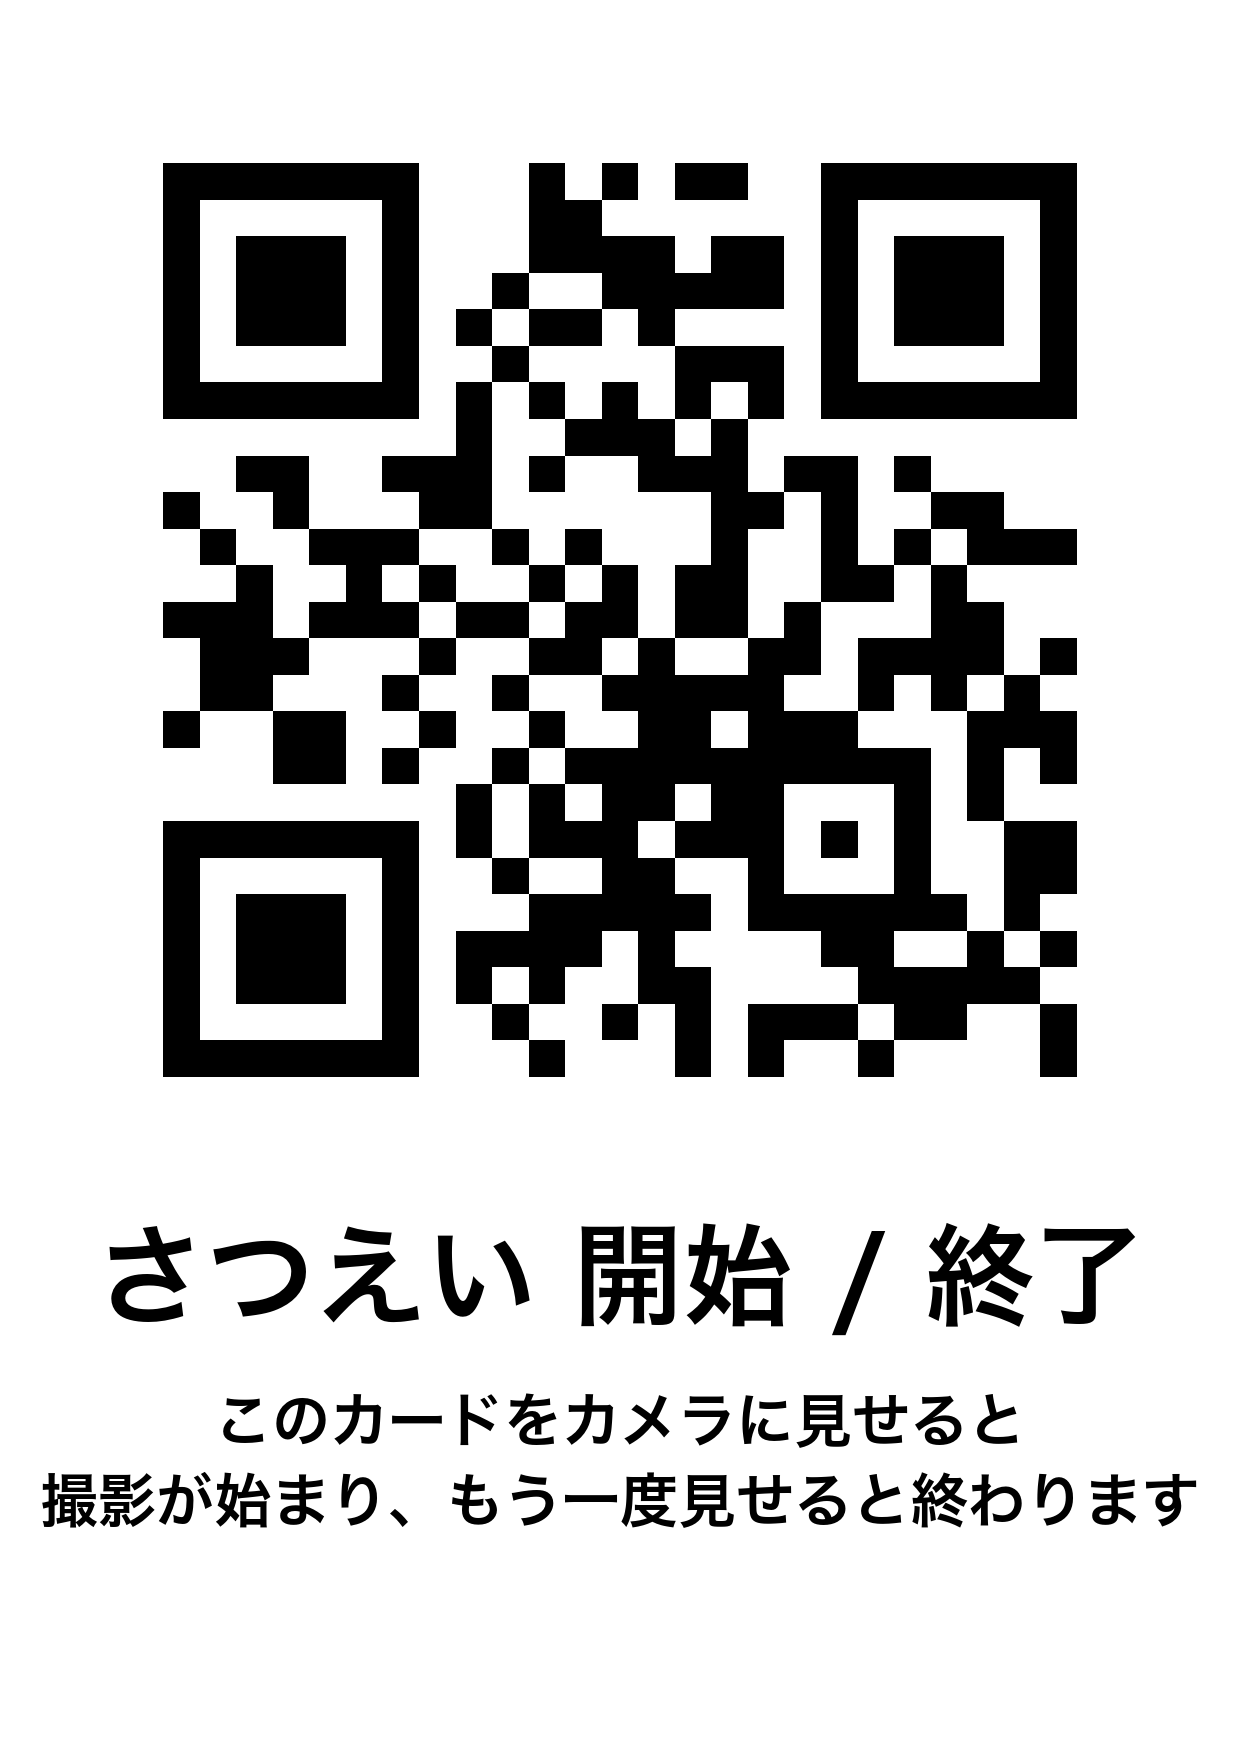
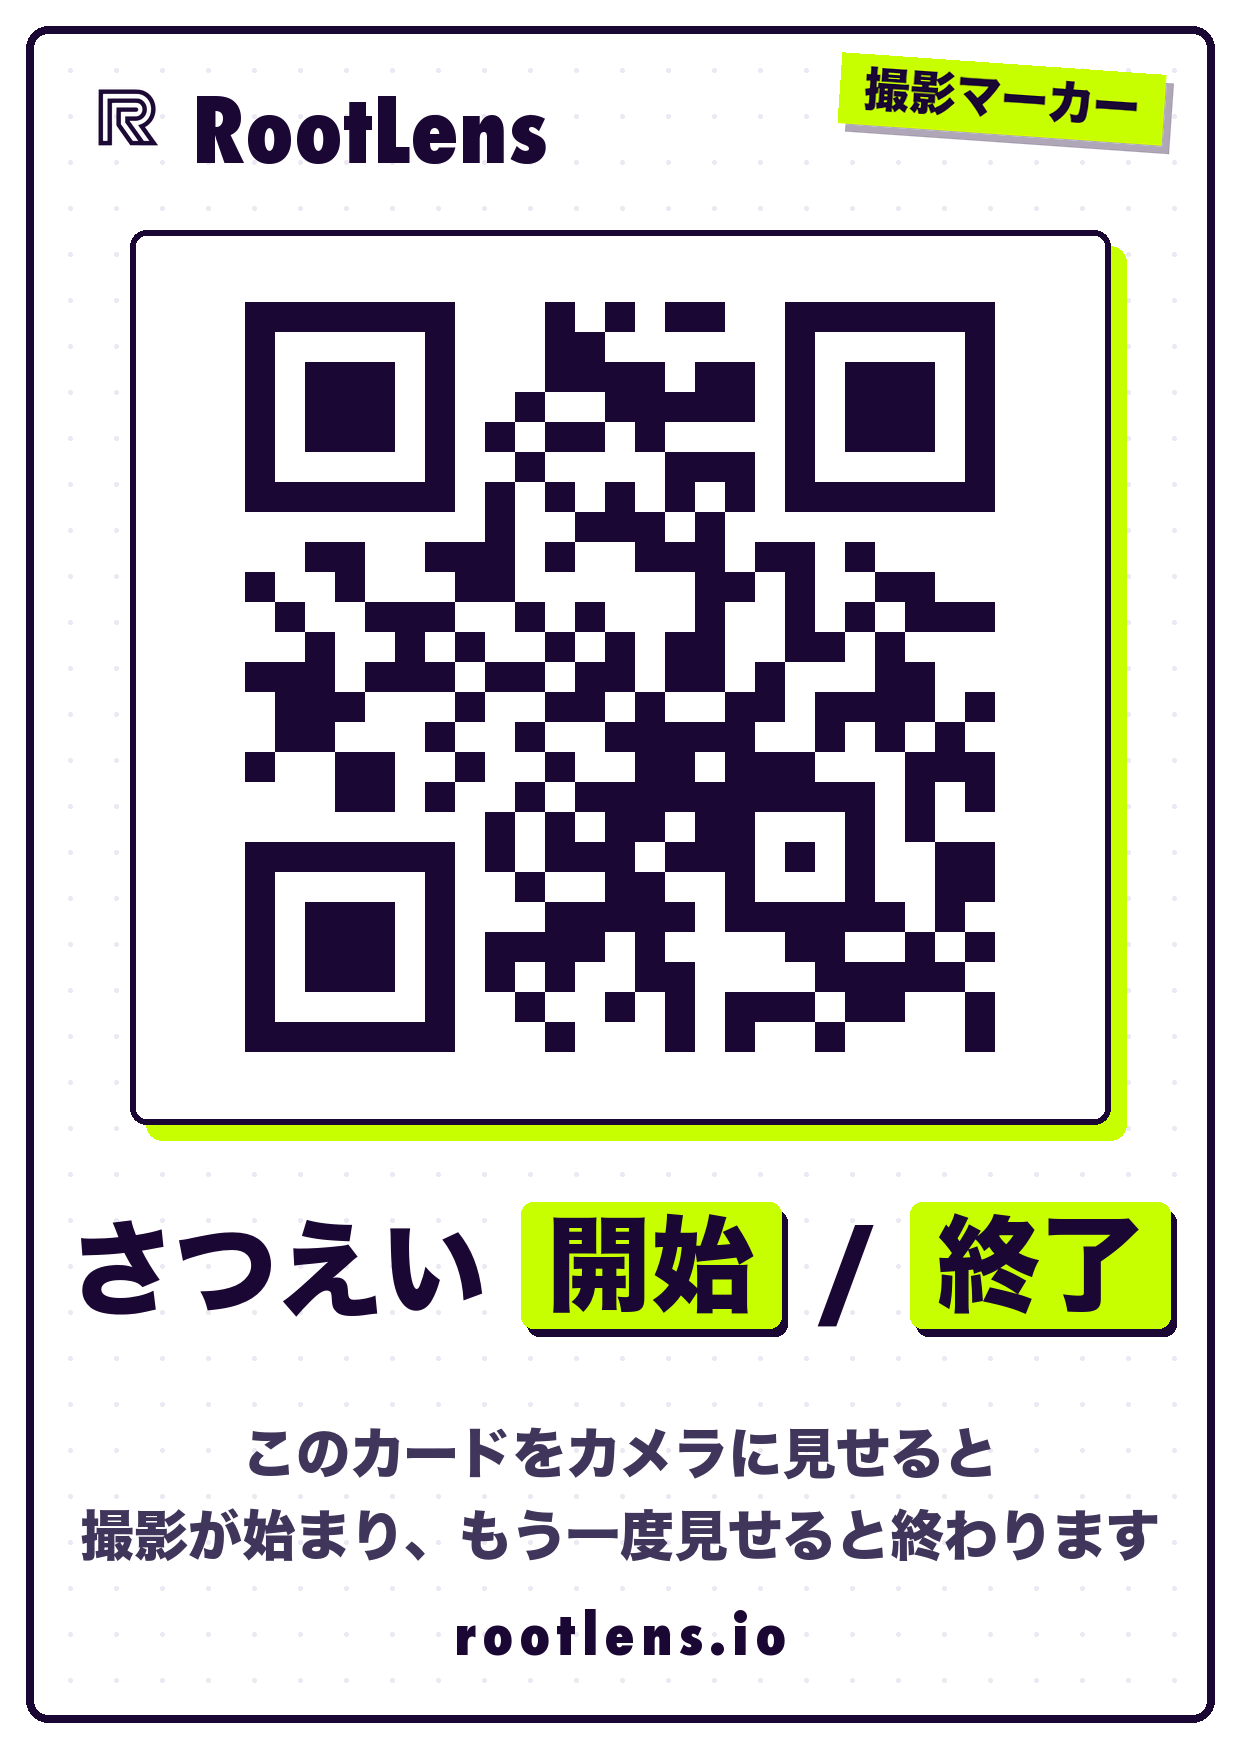
feat(business): marker card carries the brand, QR stays pristine
The plain QR sheet becomes a branded card in the ink-and-lime print
language: logo lockup and a tilted sticker tag up top, the QR on a
white plate with a hard lime shadow, start/stop as lime chips, and
rootlens.io in the footer. Detection is untouched by design: the
code sits alone on its plate with a full quiet zone, ink-on-white,
integer module scaling. Decodes down to 155 px and at a 35-degree
skew with OpenCV.

diff --git a/tools/asset-gen/gen-marker.py b/tools/asset-gen/gen-marker.py
@@ -4,6 +4,9 @@
 # 待機中なら録画開始、録画中なら終了をトグルする。ジェスチャー・音声が通らない現場での
 # 決定的なフォールバック。カードは A6 300dpi 相当。厨房で使うのでラミネート推奨。
 #
+# デザインはブランドのインク紫 + ライム 1 色。QR の検出性が最優先なので、
+# QR 本体は白地プレートの内側に素のまま置き、装飾はプレートの外に限る。
+#
 # 使い方: python3 tools/asset-gen/gen-marker.py
 # 出力:   document/business/templates/data-cooperation/marker-rec.png
 
@@ -18,23 +21,57 @@ PAYLOAD = "ROOTLENS:REC"
 
 # A6 300dpi 縦 (105 x 148 mm)
 CARD_W, CARD_H = 1240, 1748
-MARGIN = 90
+
+INK = (27, 7, 51)        # #1b0733
+BODY = (64, 53, 90)      # 説明文用の薄いインク
+LIME = (200, 255, 0)     # #c8ff00
+PAPER = (255, 255, 255)
 
 JP_FONT_CANDIDATES = [
+    "/System/Library/Fonts/ヒラギノ角ゴシック W8.ttc",
     "/System/Library/Fonts/ヒラギノ角ゴシック W6.ttc",
     "/System/Library/Fonts/ヒラギノ角ゴシック W3.ttc",
     "/System/Library/Fonts/Hiragino Sans GB.ttc",
 ]
+LATIN_FONT = "/System/Library/Fonts/Supplemental/Futura.ttc"
 
 
-def load_font(size: int) -> ImageFont.FreeTypeFont | None:
+def load_jp_font(size: int) -> ImageFont.FreeTypeFont:
     for path in JP_FONT_CANDIDATES:
         if os.path.exists(path):
             try:
                 return ImageFont.truetype(path, size)
             except OSError:
                 continue
-    return None
+    raise RuntimeError("日本語フォントが見つからない (JP_FONT_CANDIDATES を確認)")
+
+
+def load_latin_font(size: int) -> ImageFont.FreeTypeFont:
+    # Futura.ttc から Condensed ExtraBold を探す。無ければ最初のフェイスで妥協する。
+    if os.path.exists(LATIN_FONT):
+        for idx in range(12):
+            try:
+                f = ImageFont.truetype(LATIN_FONT, size, index=idx)
+            except OSError:
+                break
+            name = " ".join(f.getname())
+            if "Condensed" in name and ("ExtraBold" in name or "Extra Bold" in name):
+                return f
+        return ImageFont.truetype(LATIN_FONT, size, index=0)
+    return load_jp_font(size)
+
+
+def ink_logo(repo_root: str, size: int) -> Image.Image:
+    # rootlens_R.png はほぼ白のマークなので、アルファをマスクにインク色で塗り直す。
+    path = os.path.join(repo_root, "document", "business", "templates", "assets", "rootlens_R.png")
+    logo = Image.open(path).convert("RGBA").resize((size, size), Image.LANCZOS)
+    colored = Image.new("RGBA", logo.size, INK + (255,))
+    colored.putalpha(logo.split()[-1])
+    return colored
+
+
+def rounded_rect(draw: ImageDraw.ImageDraw, box, radius, **kw) -> None:
+    draw.rounded_rectangle(box, radius=radius, **kw)
 
 
 def main() -> None:
@@ -43,36 +80,107 @@ def main() -> None:
         repo_root, "document", "business", "templates", "data-cooperation", "marker-rec.png"
     )
 
-    # 誤り訂正 H (30%): 粉・汚れ・反射に強くする。box_size は後で高解像度へリサイズするので粗くてよい。
-    qr = qrcode.QRCode(error_correction=qrcode.constants.ERROR_CORRECT_H, border=2)
+    card = Image.new("RGB", (CARD_W, CARD_H), PAPER)
+    draw = ImageDraw.Draw(card)
+
+    # 背景のドットグリッド (プレートと文字の下には残らないよう薄く)
+    dot = (27, 7, 51)
+    for y in range(70, CARD_H - 40, 46):
+        for x in range(70, CARD_W - 40, 46):
+            draw.ellipse((x - 2, y - 2, x + 2, y + 2), fill=(237, 233, 243))
+
+    # 外枠 (インクのフレーム)
+    rounded_rect(draw, (26, 26, CARD_W - 26, CARD_H - 26), radius=22, outline=INK, width=8)
+
+    # ── ヘッダ: ロゴロックアップ + 傾けたライムのタグ ──
+    logo = ink_logo(repo_root, 96)
+    card.paste(logo, (78, 68), logo)
+    wm_font = load_latin_font(88)
+    draw.text((192, 74), "RootLens", font=wm_font, fill=INK)
+
+    tag_font = load_jp_font(46)
+    tag_text = "撮影マーカー"
+    tw = int(draw.textlength(tag_text, font=tag_font))
+    tag = Image.new("RGBA", (tw + 64, 46 + 40), (0, 0, 0, 0))
+    tag_draw = ImageDraw.Draw(tag)
+    tag_draw.rectangle((8, 8, tw + 56, 46 + 32), fill=(27, 7, 51, 90))          # 硬い影
+    tag_draw.rectangle((0, 0, tw + 48, 46 + 24), fill=LIME + (255,))
+    tag_draw.text((24, 10), tag_text, font=tag_font, fill=INK)
+    tag = tag.rotate(-4, expand=True, resample=Image.BICUBIC)
+    card.paste(tag, (CARD_W - tag.width - 58, 52), tag)
+
+    # ── QR プレート (白地 + インク枠 + ライムの硬い影) ──
+    qr = qrcode.QRCode(error_correction=qrcode.constants.ERROR_CORRECT_H, border=0)
     qr.add_data(PAYLOAD)
     qr.make(fit=True)
     qr_img = qr.make_image(fill_color="black", back_color="white").convert("L")
 
-    card = Image.new("L", (CARD_W, CARD_H), 255)
-    draw = ImageDraw.Draw(card)
+    plate_x0, plate_y0 = 130, 230
+    plate_w = CARD_W - plate_x0 * 2
+    quiet = 72  # 端末検出用の quiet zone (≥4 モジュール相当)
+    qr_size = plate_w - quiet * 2
+    modules = qr_img.size[0]
+    qr_size -= qr_size % modules  # モジュール整数倍でシャープに
+    plate_h = qr_size + quiet * 2
+    plate_x1, plate_y1 = plate_x0 + plate_w, plate_y0 + plate_h
 
-    qr_size = CARD_W - MARGIN * 2
-    qr_big = qr_img.resize((qr_size, qr_size), Image.NEAREST)  # モジュール境界をシャープに保つ
-    card.paste(qr_big, (MARGIN, MARGIN))
+    rounded_rect(draw, (plate_x0 + 16, plate_y0 + 16, plate_x1 + 16, plate_y1 + 16),
+                 radius=16, fill=LIME)                                           # 硬い影
+    rounded_rect(draw, (plate_x0, plate_y0, plate_x1, plate_y1),
+                 radius=16, fill=PAPER, outline=INK, width=6)
 
-    title_font = load_font(110)
-    sub_font = load_font(58)
-    text_top = MARGIN + qr_size + 70
-    if title_font and sub_font:
-        title = "さつえい 開始 / 終了"
-        sub = "このカードをカメラに見せると\n撮影が始まり、もう一度見せると終わります"
-        tw = draw.textlength(title, font=title_font)
-        draw.text(((CARD_W - tw) / 2, text_top), title, font=title_font, fill=0)
-        for i, line in enumerate(sub.split("\n")):
-            lw = draw.textlength(line, font=sub_font)
-            draw.text(((CARD_W - lw) / 2, text_top + 170 + i * 80), line, font=sub_font, fill=0)
-    else:
-        # 日本語フォントが見つからない環境では英語キャプションに落とす。
-        fallback = ImageFont.load_default(size=72)
-        title = "REC START / STOP"
-        tw = draw.textlength(title, font=fallback)
-        draw.text(((CARD_W - tw) / 2, text_top), title, font=fallback, fill=0)
+    qr_big = qr_img.resize((qr_size, qr_size), Image.NEAREST)
+    qr_ink = Image.new("RGB", qr_big.size, PAPER)
+    qr_ink.paste(Image.new("RGB", qr_big.size, INK), mask=qr_big.point(lambda v: 255 - v))
+    card.paste(qr_ink, (plate_x0 + (plate_w - qr_size) // 2, plate_y0 + quiet))
+
+    # ── タイトル: さつえい 開始 / 終了 (開始・終了はライムのチップ) ──
+    title_font = load_jp_font(104)
+    chip_pad_x, chip_pad_y = 26, 14
+    y_title = plate_y1 + 92
+
+    def chip_w(text: str) -> int:
+        return int(draw.textlength(text, font=title_font)) + chip_pad_x * 2
+
+    lead_text = "さつえい "
+    sep_text = " / "
+    lead_w = int(draw.textlength(lead_text, font=title_font))
+    sep_w = int(draw.textlength(sep_text, font=title_font))
+    total = lead_w + chip_w("開始") + sep_w + chip_w("終了")
+    x = (CARD_W - total) // 2
+
+    draw.text((x, y_title), lead_text, font=title_font, fill=INK)
+    x += lead_w
+    for i, word in enumerate(["開始", "終了"]):
+        cw = chip_w(word)
+        rounded_rect(draw, (x + 6, y_title - chip_pad_y + 8, x + cw + 6, y_title + 104 + chip_pad_y + 2),
+                     radius=12, fill=(27, 7, 51))                                # 硬い影
+        rounded_rect(draw, (x, y_title - chip_pad_y, x + cw, y_title + 104 + chip_pad_y - 6),
+                     radius=12, fill=LIME)
+        draw.text((x + chip_pad_x, y_title - 4), word, font=title_font, fill=INK)
+        x += cw
+        if i == 0:
+            draw.text((x, y_title), sep_text, font=title_font, fill=INK)
+            x += sep_w
+
+    # ── 説明 2 行 ──
+    sub_font = load_jp_font(54)
+    sub_lines = ["このカードをカメラに見せると", "撮影が始まり、もう一度見せると終わります"]
+    y_sub = y_title + 210
+    for i, line in enumerate(sub_lines):
+        lw = draw.textlength(line, font=sub_font)
+        draw.text(((CARD_W - lw) / 2, y_sub + i * 82), line, font=sub_font, fill=BODY)
+
+    # ── フッタ: rootlens.io ──
+    foot_font = load_latin_font(56)
+    foot = "rootlens.io"
+    tracking = 6
+    fw = sum(int(draw.textlength(c, font=foot_font)) + tracking for c in foot) - tracking
+    fx = (CARD_W - fw) / 2
+    fy = CARD_H - 150
+    for c in foot:
+        draw.text((fx, fy), c, font=foot_font, fill=INK)
+        fx += draw.textlength(c, font=foot_font) + tracking
 
     os.makedirs(os.path.dirname(out_path), exist_ok=True)
     card.save(out_path, dpi=(300, 300))
